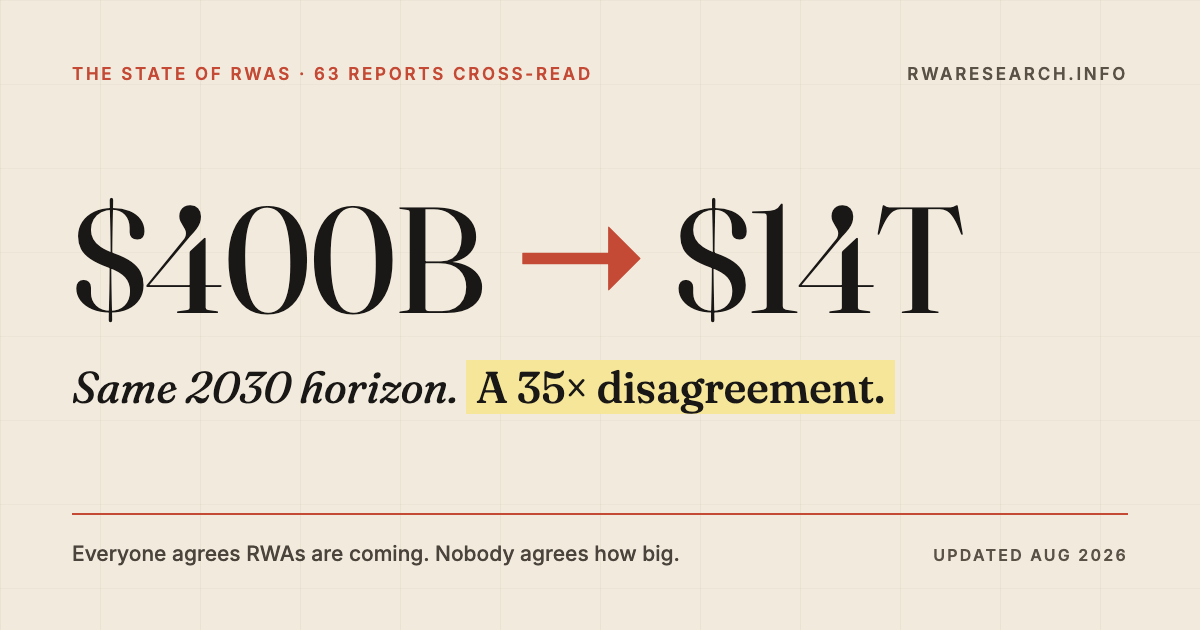
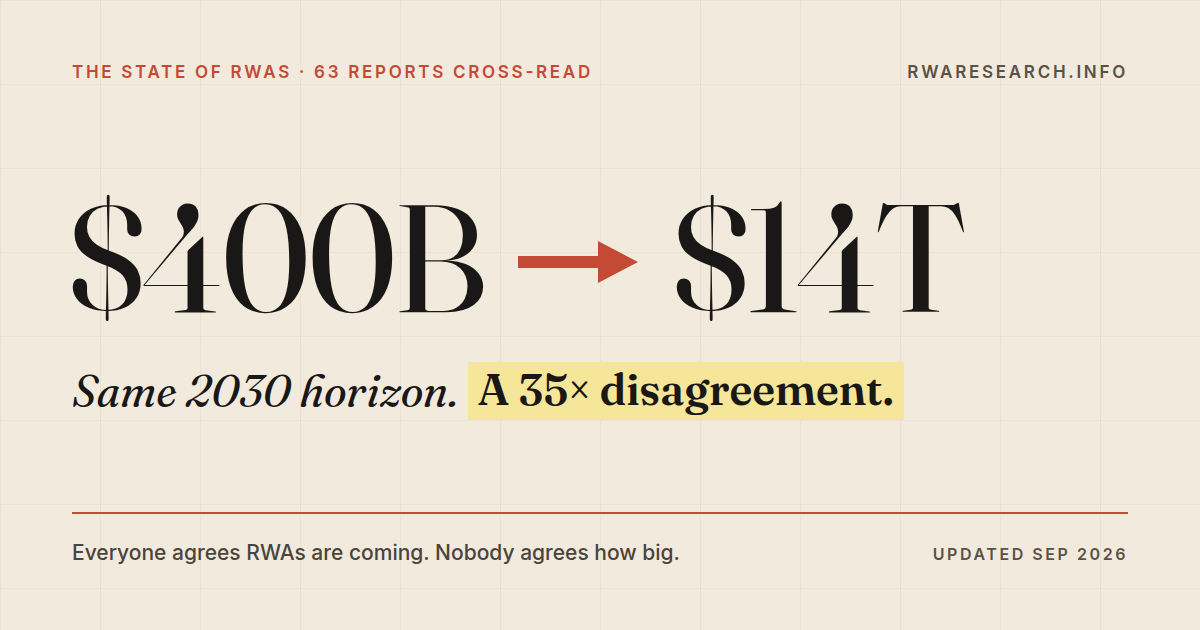
chore: re-render share card from the data
- tools/og-card.html: the 1200x630 card as a page, generated by
  render.py from data.json (headline range, spread, report count and
  updated month all computed), screenshot to public/og-card.png
- og-card.png re-rendered: now reads "Updated Sep 2026"
- meta.og_card updated; validator runs clean with no warnings
- README documents the one-command re-render

Claude-Session: https://claude.ai/code/session_01EMSru9eSEuk8Fmr1MpZNDT

diff --git a/tools/og-card.html b/tools/og-card.html
@@ -1,0 +1,35 @@
+<!DOCTYPE html>
+<!-- Generated by tools/render.py from data.json - edit there. Screenshot at 1200x630 to public/og-card.png. -->
+<html lang="en"><head><meta charset="utf-8"><title>og-card</title>
+<style>
+  @font-face{font-family:'Fraunces'; font-style:normal; font-weight:400 600; src:url(../public/fonts/fraunces-roman.woff2) format('woff2')}
+  @font-face{font-family:'Fraunces'; font-style:italic; font-weight:400 500; src:url(../public/fonts/fraunces-italic.woff2) format('woff2')}
+  @font-face{font-family:'Inter'; font-style:normal; font-weight:400 700; src:url(../public/fonts/inter.woff2) format('woff2')}
+  *{box-sizing:border-box; margin:0; padding:0}
+  html,body{width:1200px; height:630px; overflow:hidden}
+  body{background:#F2EBDD; color:#1A1816; font-family:Inter,sans-serif; -webkit-font-smoothing:antialiased; position:relative;
+    background-image:linear-gradient(to right, rgba(122,110,79,.07) 1px, transparent 1px),
+      linear-gradient(to bottom, rgba(122,110,79,.06) 1px, transparent 1px);
+    background-size:100px 100%, 100% 84px}
+  .top{position:absolute; left:72px; right:72px; top:62px; display:flex; justify-content:space-between;
+    font-size:17px; font-weight:600; letter-spacing:.16em; text-transform:uppercase}
+  .top .k{color:#C44A36} .top .s{color:#5A5247}
+  .num{position:absolute; left:68px; top:180px; display:flex; align-items:center; gap:34px;
+    font-family:Fraunces,serif; font-weight:400; font-size:153px; line-height:1; letter-spacing:-.025em}
+  .arrow{width:120px; height:46px; margin-top:10px}
+  .tag{position:absolute; left:72px; top:362px; display:flex; align-items:center; gap:10px;
+    font-family:Fraunces,serif; font-size:44px; line-height:1}
+  .tag .it{font-style:italic}
+  .tag .hl{background:#F5E69A; padding:5px 10px 9px; font-weight:600}
+  .rule{position:absolute; left:72px; right:72px; top:512px; height:2px; background:#C44A36}
+  .foot{position:absolute; left:72px; right:72px; top:540px; display:flex; justify-content:space-between; align-items:baseline}
+  .foot .l{font-size:21px; font-weight:500; color:#4A443D}
+  .foot .r{font-size:16px; font-weight:600; letter-spacing:.16em; text-transform:uppercase; color:#5A5247}
+</style></head>
+<body>
+  <div class="top"><span class="k">The state of RWAs · 63 reports cross-read</span><span class="s">rwaresearch.info</span></div>
+  <div class="num"><span>$400B</span><svg class="arrow" viewBox="0 0 120 46" aria-hidden="true"><path d="M0 23H86" stroke="#C44A36" stroke-width="12"/><path d="M80 2L120 23L80 44Z" fill="#C44A36"/></svg><span>$14T</span></div>
+  <div class="tag"><span class="it">Same 2030 horizon.</span><span class="hl">A 35× disagreement.</span></div>
+  <div class="rule"></div>
+  <div class="foot"><span class="l">Everyone agrees RWAs are coming. Nobody agrees how big.</span><span class="r">Updated Sep 2026</span></div>
+</body></html>

diff --git a/tools/render.py b/tools/render.py
@@ -325,6 +325,58 @@ def build_sources(D, S):
     return "\n    ".join(out)
 
 
+# ---------- share card: tools/og-card.html -> public/og-card.png ----------
+
+OG_ARROW = ('<svg class="arrow" viewBox="0 0 120 46" aria-hidden="true"><path d="M0 23H86" stroke="#C44A36" '
+            'stroke-width="12"/><path d="M80 2L120 23L80 44Z" fill="#C44A36"/></svg>')
+
+
+def render_og_card(D, S):
+    """The 1200x630 share card as a standalone page. Screenshot it to public/og-card.png
+    (see README) and record what it says in meta.og_card - validate.py checks that record."""
+    c = D.d["copy"]["og_card"]
+    r = lambda k: escape(resolve(c[k], D, S))
+    body = ('  <div class="top"><span class="k">' + r("kicker") + '</span><span class="s">' + r("site") + '</span></div>\n'
+            '  <div class="num"><span>' + escape(S["fc_lo"]) + '</span>' + OG_ARROW
+            + '<span>' + escape(S["fc_hi"]) + '</span></div>\n'
+            '  <div class="tag"><span class="it">' + r("lead") + '</span><span class="hl">' + r("highlight") + '</span></div>\n'
+            '  <div class="rule"></div>\n'
+            '  <div class="foot"><span class="l">' + r("footer") + '</span><span class="r">Updated '
+            + escape(S["updated_month"]) + '</span></div>\n')
+    return OG_HEAD + "<body>\n" + body + "</body></html>\n"
+
+
+OG_HEAD = """<!DOCTYPE html>
+<!-- Generated by tools/render.py from data.json - edit there. Screenshot at 1200x630 to public/og-card.png. -->
+<html lang="en"><head><meta charset="utf-8"><title>og-card</title>
+<style>
+  @font-face{font-family:'Fraunces'; font-style:normal; font-weight:400 600; src:url(../public/fonts/fraunces-roman.woff2) format('woff2')}
+  @font-face{font-family:'Fraunces'; font-style:italic; font-weight:400 500; src:url(../public/fonts/fraunces-italic.woff2) format('woff2')}
+  @font-face{font-family:'Inter'; font-style:normal; font-weight:400 700; src:url(../public/fonts/inter.woff2) format('woff2')}
+  *{box-sizing:border-box; margin:0; padding:0}
+  html,body{width:1200px; height:630px; overflow:hidden}
+  body{background:#F2EBDD; color:#1A1816; font-family:Inter,sans-serif; -webkit-font-smoothing:antialiased; position:relative;
+    background-image:linear-gradient(to right, rgba(122,110,79,.07) 1px, transparent 1px),
+      linear-gradient(to bottom, rgba(122,110,79,.06) 1px, transparent 1px);
+    background-size:100px 100%, 100% 84px}
+  .top{position:absolute; left:72px; right:72px; top:62px; display:flex; justify-content:space-between;
+    font-size:17px; font-weight:600; letter-spacing:.16em; text-transform:uppercase}
+  .top .k{color:#C44A36} .top .s{color:#5A5247}
+  .num{position:absolute; left:68px; top:180px; display:flex; align-items:center; gap:34px;
+    font-family:Fraunces,serif; font-weight:400; font-size:153px; line-height:1; letter-spacing:-.025em}
+  .arrow{width:120px; height:46px; margin-top:10px}
+  .tag{position:absolute; left:72px; top:362px; display:flex; align-items:center; gap:10px;
+    font-family:Fraunces,serif; font-size:44px; line-height:1}
+  .tag .it{font-style:italic}
+  .tag .hl{background:#F5E69A; padding:5px 10px 9px; font-weight:600}
+  .rule{position:absolute; left:72px; right:72px; top:512px; height:2px; background:#C44A36}
+  .foot{position:absolute; left:72px; right:72px; top:540px; display:flex; justify-content:space-between; align-items:baseline}
+  .foot .l{font-size:21px; font-weight:500; color:#4A443D}
+  .foot .r{font-size:16px; font-weight:600; letter-spacing:.16em; text-transform:uppercase; color:#5A5247}
+</style></head>
+"""
+
+
 # ---------- whole-file builders ----------
 
 BLOCKS = {
@@ -636,6 +688,7 @@ def main():
         "public/llms.txt": render_llms(D, S),
         "SOURCES.md": render_sources_md(D, S),
         "DATA.md": render_data_md(D, S),
+        "tools/og-card.html": render_og_card(D, S),
     }
     stale = []
     for name, content in outputs.items():

diff --git a/README.md b/README.md
@@ -96,6 +96,7 @@ public/                      everything Cloudflare serves – nothing else is pu
 tools/render.py              the generator: data.json → index.html regions + derived files
 tools/validate.py            the checks: schema, integrity, derived claims, page-prose lint, --links
 tools/rwalib.py              shared helpers: formatting, dates, placeholders, computed stats
+tools/og-card.html           the share card as a page – screenshot to public/og-card.png (generated)
 .github/workflows/           data-check.yml – validate + sync check on every push/PR
                              link-check.yml – weekly check that every source URL resolves
 SOURCES.md                   the source register in markdown – same 22 entries as the page (generated)
@@ -168,7 +169,15 @@ Both scripts are stdlib-only, Python 3.9+. The generator rewrites the regions of
 
 **Sections are deep-linkable** – every section has an id (`#consensus`, `#map`, `#forecast`, `#denominator`, `#stablecoins`, `#lead-asset`, `#rails`, `#constraint`, `#takeaway`, `#sources`), each `h2` grows a `#` anchor on hover, and a fixed progress rail (`.rail`, shown ≥1280px) tracks the active section via IntersectionObserver.
 
-**Share metadata** in the `<head>` – description, canonical, Open Graph + Twitter cards, JSON-LD `Article` + `Dataset` – is generated from `meta` and `copy.share`. `og-card.png` is a static image: `meta.og_card` records what it says, and the validator fails if its headline numbers drift from the data (and warns when its "Updated" month is stale).
+**Share metadata** in the `<head>` – description, canonical, Open Graph + Twitter cards, JSON-LD `Article` + `Dataset` – is generated from `meta` and `copy.share`. `og-card.png` is a static image rendered from `tools/og-card.html`, which `render.py` generates from the data. `meta.og_card` records what the PNG currently says; the validator fails if its headline numbers drift from the data and warns when its "Updated" month is stale. To re-render:
+
+```bash
+python3 tools/render.py
+npx -y playwright@1.56 screenshot --browser=chromium --viewport-size=1200,630 --wait-for-timeout=500 \
+  "file://$PWD/tools/og-card.html" public/og-card.png
+```
+
+then set `meta.og_card` to match and run `validate.py` again.
 
 **Design tokens** are CSS custom properties in `:root` at [index.html:12](index.html#L12) – paper `#F2EBDD`, ink `#1A1816`, accent `#C44A36`, highlight `#F5E69A`, plus Fraunces (display) and Inter (text), self-hosted as variable WOFF2 latin subsets in `public/fonts/` – the page makes no external requests at all. Scope colours used by the chart and the matrix pills come from the same set, so the two sections stay legible against each other.
 
